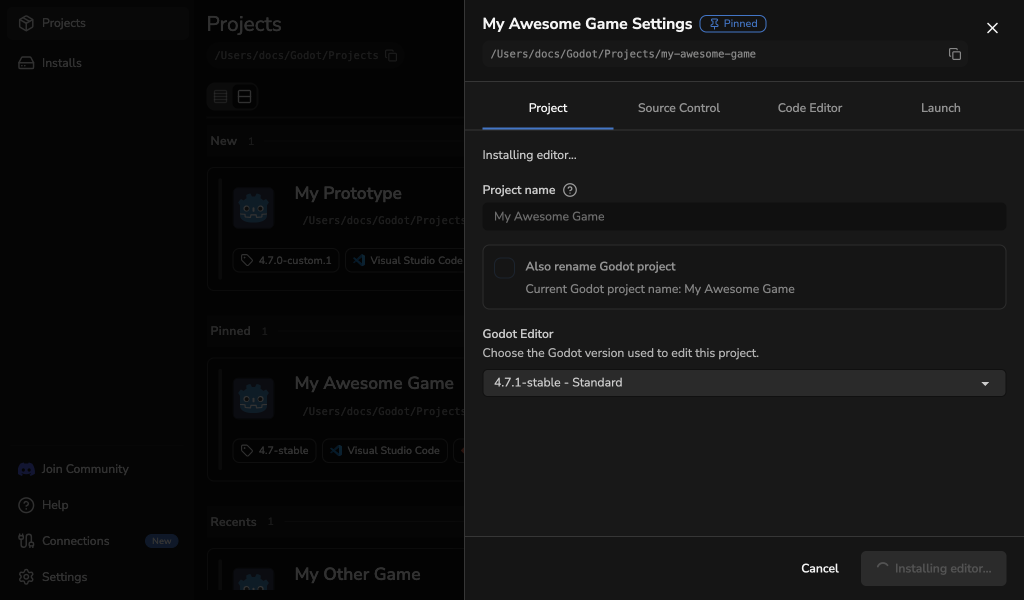
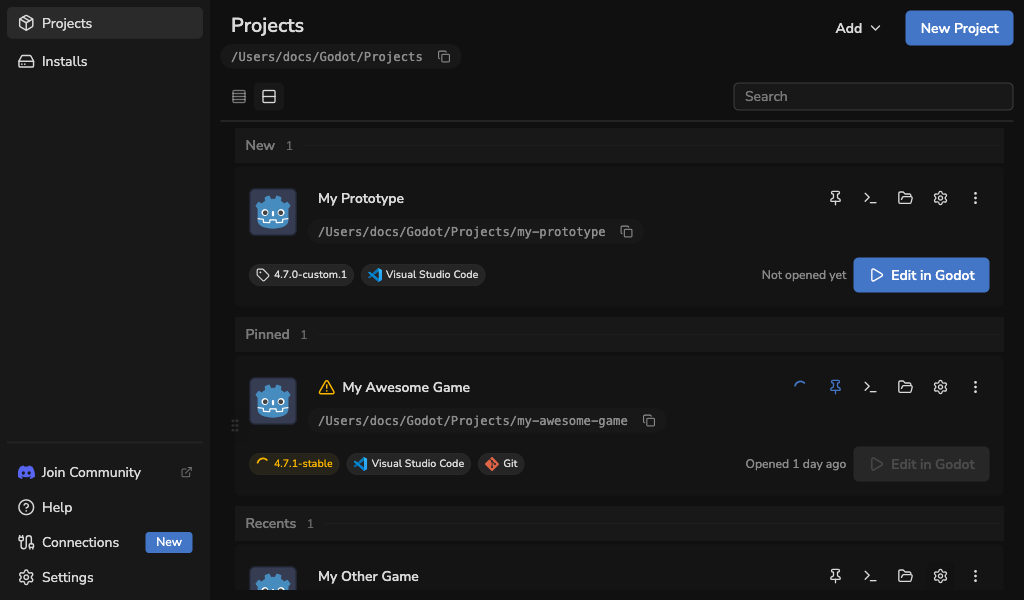
docs(projects): explain editor download progress after saving

diff --git a/docs/editors/change-project-editor.md b/docs/editors/change-project-editor.md
@@ -17,7 +17,7 @@ import ThemedImage from '@theme/ThemedImage';
 
 # Change Project Editor Version
 
-Each project can use a different Godot editor. Change it when a project needs
+Each project in Godot Launcher can use a different Godot editor. Change it when a project needs
 another installed or registered release, a downloadable compatible official
 release, a .NET build, or a custom build.
 
@@ -40,10 +40,15 @@ release, a .NET build, or a custom build.
 
 The project uses the selected editor the next time you open it. Its folder and `project.godot` file do not move.
 
-For a downloadable editor, the launcher finishes installation and saving in the
-background after you select **Install and save**. Reopen [Project
-Settings](../projects/project-settings.mdx) to check a pending save or recover
-the retained draft if installation fails.
+For a downloadable editor, **Install and save** saves the selected version
+before starting its download. Project Settings closes and the project shows
+the selected version and download progress. You can reopen [Project
+Settings](../projects/project-settings.mdx) to make further changes while the
+editor installs.
+
+If installation fails or is cancelled, the selected version stays saved.
+Use **Install required editor** on the project to retry, or select another
+installed editor. A completed download does not replace a newer editor choice.
 
 :::info
 Godot Launcher only changes a project between editors from the same major Godot version. Follow the [official Godot upgrading guide](https://docs.godotengine.org/en/stable/tutorials/migrating/upgrading_to_godot_4.html) before opening a project with a different major version.
